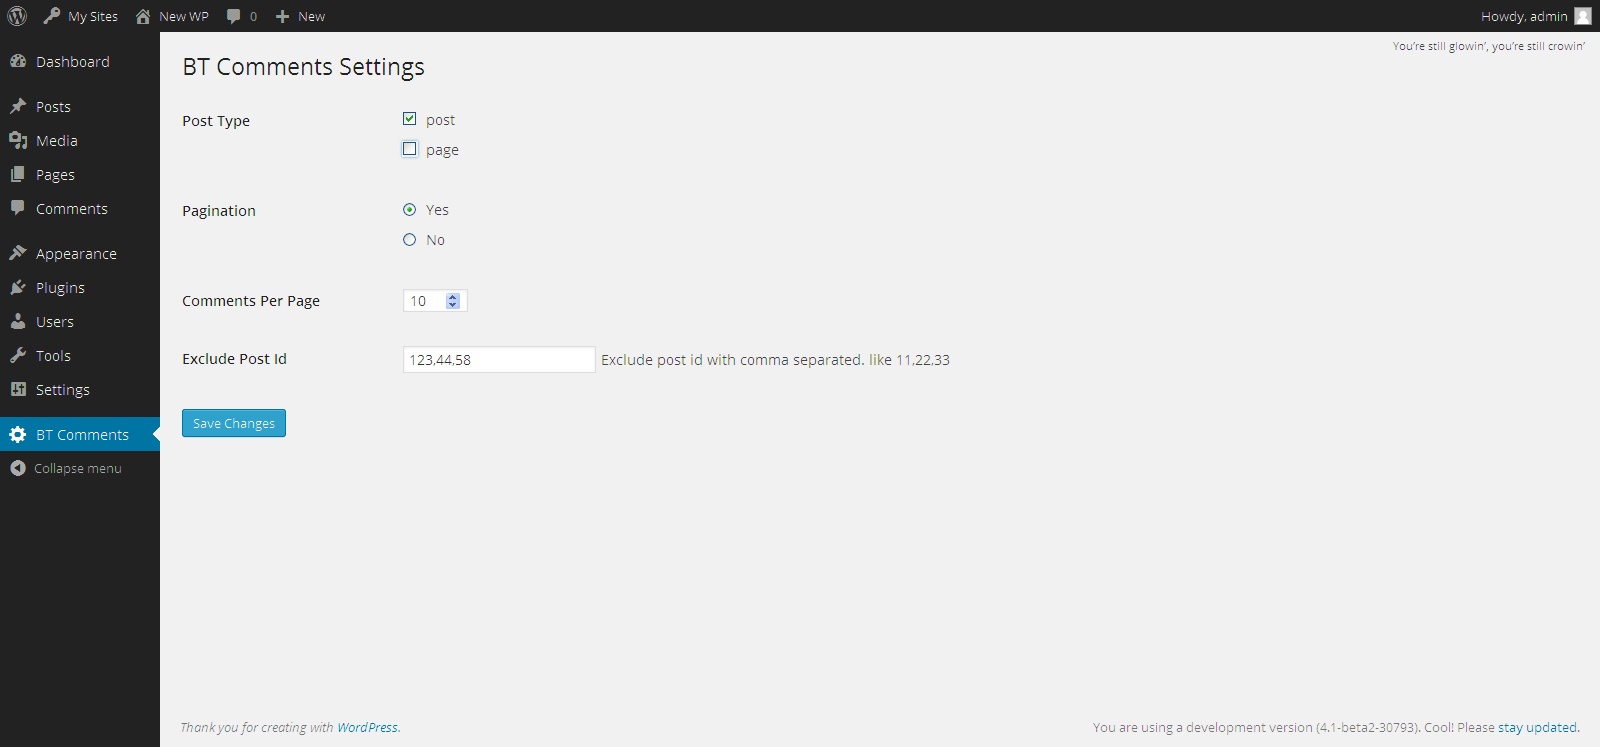
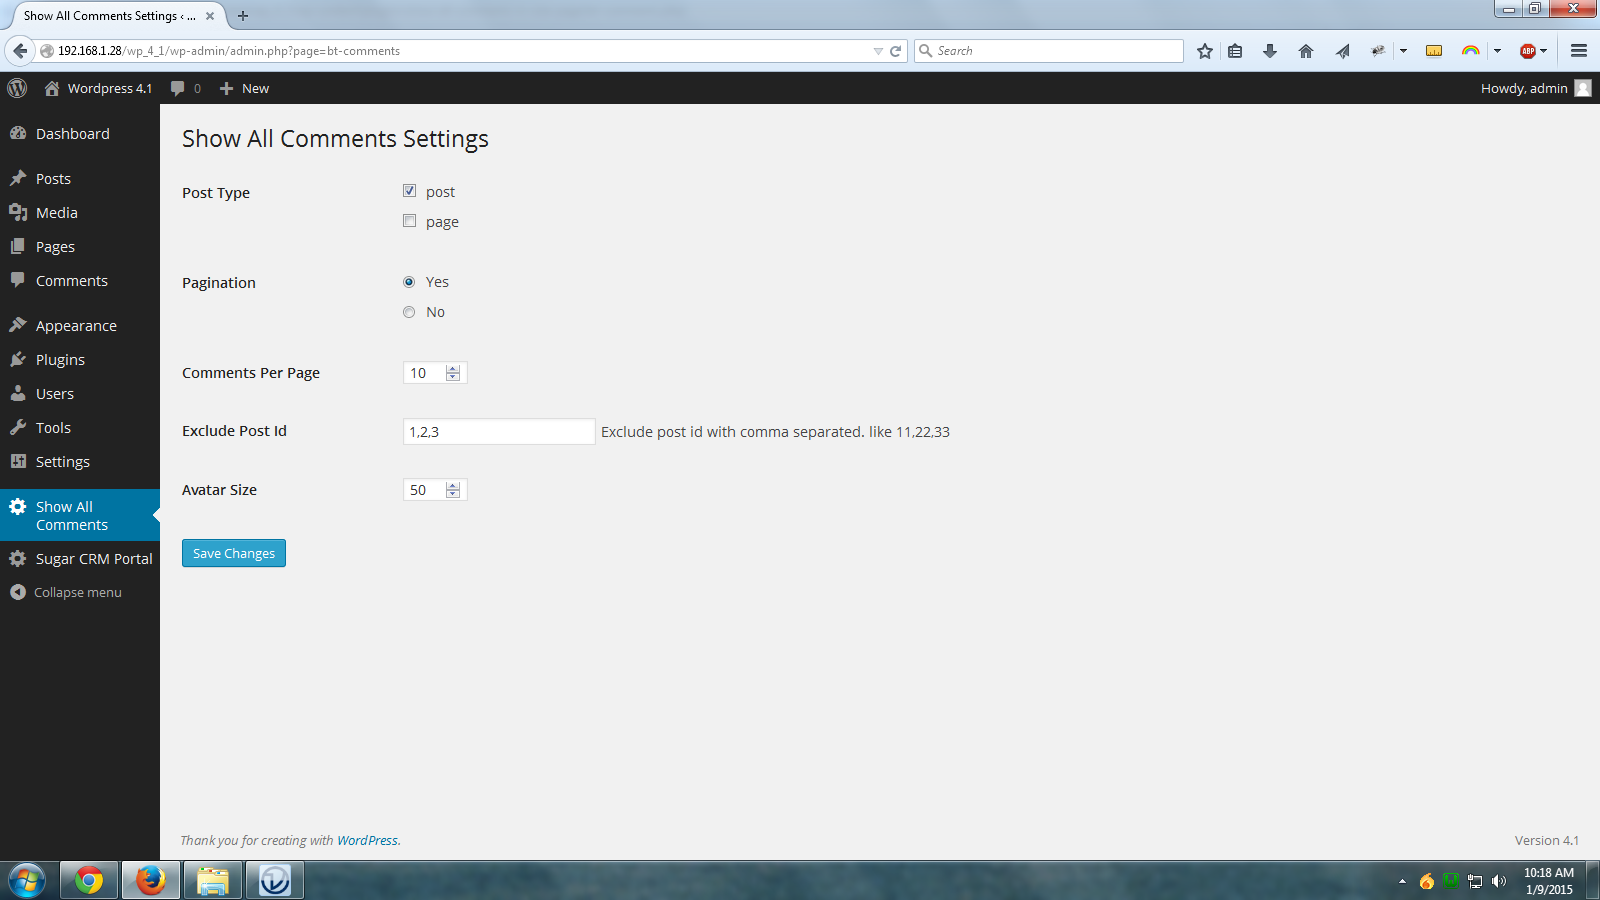
new version with set avtar size ans solved exclude setting
git-svn-id: https://plugins.svn.wordpress.org/show-all-comments-in-one-page/trunk@1063817 b8457f37-d9ea-0310-8a92-e5e31aec5664

diff --git a/bt-comments.php b/bt-comments.php
@@ -4,51 +4,49 @@
  * Description: Show all comments in one page.
  * Author: biztechc
  * Author URI: http://www.biztechconsultancy.com
- * Version: 1.0.3 
+ * Version: 1.0.4 
  */
  
 add_action('admin_menu', 'bt_comments_create_menu');
-function bt_comments_create_menu()
-{
+function bt_comments_create_menu() {
 
     //create new top-level menu
-    add_menu_page('BT Comments Settings', 'BT Comments', 'administrator', 'bt-comments', 'bt_comments_settings_page');
+    add_menu_page('Show All Comments Settings', 'Show All Comments', 'administrator', 'bt-comments', 'bt_comments_settings_page');
 
     //call register settings function
     add_action( 'admin_init', 'register_bt_comments_settings' );
 }
 
 
-function register_bt_comments_settings() 
-{
+function register_bt_comments_settings() {
     //register our settings
     register_setting( 'bt-comments-settings-group', 'bt_post_type' );
     register_setting( 'bt-comments-settings-group', 'bt_pagination' );
     register_setting( 'bt-comments-settings-group', 'bt_comments_per_page' );
     register_setting( 'bt-comments-settings-group', 'bt_exclude_post' );
+    register_setting( 'bt-comments-settings-group', 'biztech_sac_avatar' );
 }
 
-function bt_comments_settings_page() // Admin side page options
-{
+function bt_comments_settings_page() {
     
+    // Admin side page options
     $set_bt_post_type = get_option('bt_post_type');
     
-    if($set_bt_post_type == NULL)
-    {
+    if($set_bt_post_type == NULL) {
         $set_bt_post_type = Array('bt' => 'bt');
     }
     $set_bt_pagination = get_option('bt_pagination');
     $set_bt_comments_per_page = get_option('bt_comments_per_page');
     
-    if($set_bt_comments_per_page == NULL)
-    {
+    if($set_bt_comments_per_page == NULL) {
         $set_bt_comments_per_page = 10;
     }
     $set_bt_exclude_post = get_option('bt_exclude_post');
+    $set_biztech_sac_avatar = get_option('biztech_sac_avatar');
     
 ?>
 <div class="wrap">
-<h2>BT Comments Settings</h2>
+<h2>Show All Comments Settings</h2>
 
 <form method="post" action="options.php">
     <?php settings_fields( 'bt-comments-settings-group' ); ?>
@@ -66,10 +64,8 @@ function bt_comments_settings_page() // Admin side page options
                                 unset($post_types['revision']);
                                 unset($post_types['nav_menu_item']);
                                  
-                                foreach ( $post_types as $post_type ) 
-                                {
-                                    if(in_array("$post_type",$set_bt_post_type) == true)
-                                    {
+                                foreach ( $post_types as $post_type ) {
+                                    if(in_array("$post_type",$set_bt_post_type) == true) {
                                         $checked = 'checked=checked';
                                     }
                                     ?>
@@ -88,15 +84,13 @@ function bt_comments_settings_page() // Admin side page options
             <td>
                 <fieldset>
                         <?php 
-                            if($set_bt_pagination == 'yes')
-                            {
+                            if($set_bt_pagination == 'yes') {
                                 ?>
                                     <label><input type="radio"  value="yes" name="bt_pagination" checked="checked"> <span>Yes</span></label><br>
                                     <label><input type="radio"  value="no"  name="bt_pagination"> <span>No</span></label>
                                 <?php    
                             }
-                            else
-                            {
+                            else {
                                 ?>
                                     <label><input type="radio"  value="yes" name="bt_pagination"> <span>Yes</span></label><br>
                                     <label><input type="radio"  value="no"  name="bt_pagination" checked="checked"> <span>No</span></label>
@@ -117,6 +111,11 @@ function bt_comments_settings_page() // Admin side page options
             <td><input type="text" name="bt_exclude_post" value="<?php echo $set_bt_exclude_post; ?>" /> Exclude post id with comma separated. like 11,22,33</td>
         </tr>
         
+        <tr valign="top">
+            <th scope="row">Avatar Size</th>
+            <td><input type="number" class="small-text" value="<?php if($set_biztech_sac_avatar == NULL) { echo "50"; } else { echo $set_biztech_sac_avatar; }?>" id="biztech_sac_avatar" min="1" step="1" name="biztech_sac_avatar"></td>
+        </tr>
+        
     </table>
     
     <?php submit_button(); ?>
@@ -125,39 +124,34 @@ function bt_comments_settings_page() // Admin side page options
 </div>
 <?php } ?>
 <?php 
-function custom_comments() // set comments settings 
-{         
+function custom_comments() {
+    
+    // set comments settings          
     $page = intval( get_query_var( 'cpage' ) );
-    if ( 0 == $page ) 
-    {
+    if ( 0 == $page ) {
         $page = 1;
         set_query_var( 'cpage', $page );
     }
     
     $pagination = get_option('bt_pagination');
     
-    if($pagination == 'yes')
-    {
+    if($pagination == 'yes') {
        $comments_per_page = get_option('bt_comments_per_page');
     }
-    else
-    {
+    else {
         $comments_per_page = 0;
     }   
        
       $post_type = get_option('bt_post_type');
-      if($post_type != NULL)
-      {          
-            function wpse_121051( $clauses, $wpqc )
-            {
+      if($post_type != NULL) {          
+            function wpse_121051( $clauses, $wpqc ) {
                     global $wpdb;
 
                     // Remove the comments_clauses filter, we don't need it anymore. 
                     remove_filter( current_filter(), __FUNCTION__ );
 
                     // Add the multiple post type support.
-                    if( isset( $wpqc->query_vars['post_type'][0] ) )
-                    {
+                    if( isset( $wpqc->query_vars['post_type'][0] ) ) {
 
                         $join = join( "', '", array_map( 'esc_sql', $wpqc->query_vars['post_type'] ) );
 
@@ -171,24 +165,50 @@ function custom_comments() // set comments settings
             }
             add_filter( 'comments_clauses', 'wpse_121051', 10, 2 ); 
       }
-      else
-      {
-         $post_type='post'; 
+      else {
+         $post_type= array('bt'); 
       }    
     
     $exclude_post = get_option('bt_exclude_post');
     $exclude_post = explode(',',$exclude_post);
+    
+    global $wp_version;
+    if ( $wp_version >= 4.1 ) {
+        $defaults = array(
+            'order' => 'DESC',
+            'post_type' => $post_type,
+            'status' => 'approve',
+            'count' => false,
+            'post__not_in' => $exclude_post,
+            'date_query' => null
+        );
         
-    $defaults = array(
-        'order' => 'DESC',
-        'post_id' => 0,
-        'post_type' => $post_type,
-        'count' => false,
-        'number' => '',
-        'post__not_in' => $exclude_post,
-        'date_query' => null
-    );
-    $comments = get_comments( $defaults );
+        $comments = get_comments( $defaults );
+    }
+    else {
+        global $wpdb;
+       
+        $post_type = implode("','",$post_type); 
+        $post_type = "'".$post_type."'";
+       
+        $exclude_post = implode(',',$exclude_post);  
+        if($exclude_post == NULL ){
+            $exclude_post = 0;
+        }
+        
+        $getIncludePostId = $wpdb->get_results( 
+            "
+            SELECT * 
+            FROM $wpdb->comments c
+            INNER JOIN  $wpdb->posts p 
+                ON c.comment_post_ID = p.ID
+            WHERE  p.post_type IN($post_type) AND p.ID NOT IN($exclude_post) AND c.comment_approved = 1 
+            ORDER BY c.comment_ID DESC 
+            "
+        );
+        $comments = $getIncludePostId;                  
+    }
+    
     echo "<ul class=custom-comments>";
     wp_list_comments( array (
             'walker'            => null,
@@ -214,20 +234,23 @@ function custom_comments() // set comments settings
 }
 add_shortcode('bt_comments','custom_comments');
 
-function custom_comments_style() // add custom style
-{
+function custom_comments_style() {
+    
+     // add custom style 
     wp_enqueue_style( 'custom-comments', plugins_url('css/custom-comments.css', __FILE__) );
 }  
 add_action('wp_enqueue_scripts','custom_comments_style');   
 
 add_filter( 'pre_option_page_comments', '__return_true' );    
 
-function custom_comments_template($comment, $args, $depth)  // show comments
-{
+function custom_comments_template($comment, $args, $depth) {
+    
+    // show comments 
     $GLOBALS['comment'] = $comment;
+    $getAvatarSize = get_option('biztech_sac_avatar');
     ?>
         <li>
-                <div class="avatar-custom"><?php echo get_avatar( get_the_author_meta( 'ID' ), 50 ); ?></div>
+                <div class="avatar-custom"><?php echo get_avatar( $comment, $getAvatarSize ); ?></div>
                 <div class="custom-comment-wrap">
                     <h4 class="custom-comment-meta">
                         From <span class="custom-comment-author"><?php echo $comment->comment_author; ?></span> 
@@ -241,10 +264,10 @@ function custom_comments_template($comment, $args, $depth)  // show comments
 }
 
 register_uninstall_hook( __FILE__, 'bt_comments_uninstall' ); // uninstall plug-in
-function bt_comments_uninstall()
-{
+function bt_comments_uninstall() {
    delete_option('bt_post_type');
    delete_option('bt_pagination');
    delete_option('bt_comments_per_page'); 
    delete_option('bt_exclude_post');
+   delete_option('biztech_sac_avatar');
 } 
